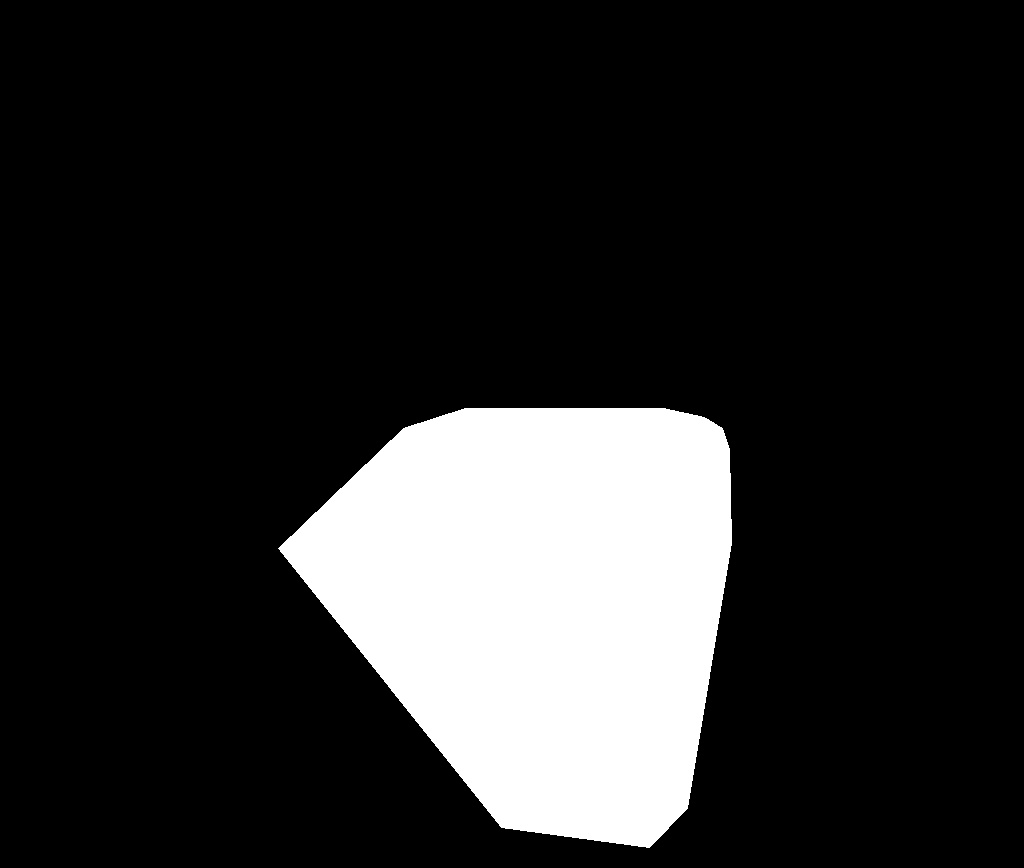
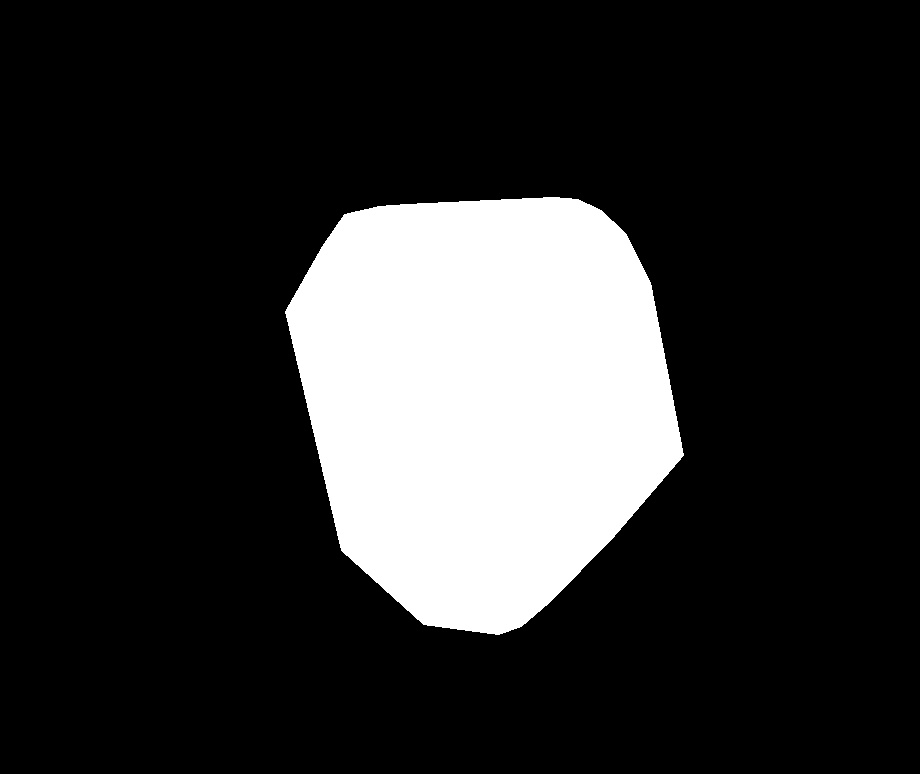
xxx

Changed region(s): [[0.2739, 0.2481, 0.7609, 0.9922]]

diff --git a/face_swap.py b/face_swap.py
@@ -135,6 +135,12 @@ if __name__ =='__main__':
     img2  = cv2.imread(filename2)
     img1Warped = np.copy(img2)
 
+    index = np.zeros((68,1),dtype='int')
+    for i in range(68):
+        index[i][0] = i
+
+    print("index")
+    print(index)
     # Read array of corresponding points
     points1 = readPoints(txt_path1)
     print(len(points1))
@@ -145,16 +151,24 @@ if __name__ =='__main__':
     hull2 = []
     img_corp = img1.copy()
     hullIndex = cv2.convexHull(np.array(points2),returnPoints= False)
-
+    print("hull")
+    print(hullIndex)
+    print(len(hullIndex))
     # find convexHull
     hullIndex1 = cv2.convexHull(np.array(points1))
+    hullIndex = index
+    hullIndex1 = index
+    print(len(hullIndex1))
     for i in range(len(hullIndex1)):
         cv2.line(img_corp,tuple(hullIndex1[i][0]),tuple(hullIndex1[(i+1)%len(hullIndex1)][0]),(255,0,0),2)
         #cv2.circle(img_corp,i,2,(205,0,0),2)
     img_point = img1.copy()
+    print(len(img_point))
     for i in points1:
         cv2.circle(img_point,tuple(i),2,(0,255,0),5)
     fillbox = np.hstack((img1,img_point,img_corp))
+    print("test###")
+    print(len(fillbox))
     cv2.imwrite("sswap/fillbox.png",fillbox)
 
     for i in range(0,len(hullIndex)):
@@ -234,6 +248,10 @@ def face_swap_1(filename1, frame, points1, points2, valid_flg):
     img2 = frame
     img1Warped = np.copy(img2)
 
+
+    index = np.zeros((68,1),dtype='int32')
+    for i in range(68):
+        index[i][0] = i
     # Read array of corresponding points
     #points1 = readPoints(txt_path1)
     #print(len(points1))
@@ -255,8 +273,14 @@ def face_swap_1(filename1, frame, points1, points2, valid_flg):
     hullIndex = cv2.convexHull(np.array(points2_valid), returnPoints=False)
 
     # find convexHull
-    hullIndex1 = cv2.convexHull(np.array(points1_valid))
+    hullIndex1 = np.array(points1_valid)
+
+    hullIndex = index
+    # hullIndex1 = index
+
+
     for i in range(len(hullIndex1)):
+        print(i)
         cv2.line(img_corp, tuple(hullIndex1[i][0]), tuple(hullIndex1[(i + 1) % len(hullIndex1)][0]), (255, 0, 0), 2)
         # cv2.circle(img_corp,i,2,(205,0,0),2)
     img_point = img1.copy()

diff --git a/optical_flow.py b/optical_flow.py
@@ -44,19 +44,19 @@ filename1 = "sswap/1.png"
 while (1):
     # 对每一帧进行读取
     ret, frame = cap.read()
-    print(frame.shape)
+    #print(frame.shape)
 
     # cv2.imshow(out)
     frame_gray = cv2.cvtColor(frame, cv2.COLOR_BGR2GRAY)
 
-    # calculate optical flow
+    # calculate optical flow  p1 是所有的点
     p1, st, err = cv2.calcOpticalFlowPyrLK(old_gray, frame_gray, p0, None,
                                            **lk_params)
 
 
 
 
-    # 得到有效的点的集合
+    # 得到有效的点的index集合 相对于68个点集合
     for i in range(len(st)):
         if st[i] == 1:
             pass
@@ -65,7 +65,7 @@ while (1):
     for i in range(len(flg)):
         if(flg[i] == 0 and i in valid):
             valid.remove(i)
-    # ((valid))
+    print((valid))
 
 
     for i in range(len(valid)):
@@ -101,6 +101,6 @@ while (1):
     old_gray = frame_gray.copy()
     # n * 1 * 2 表示点
     p0 = good_new.reshape(-1, 1, 2)
-    print(p0)
+    #print(p0)
 cv2.destroyAllWindows()
 cap.release()
